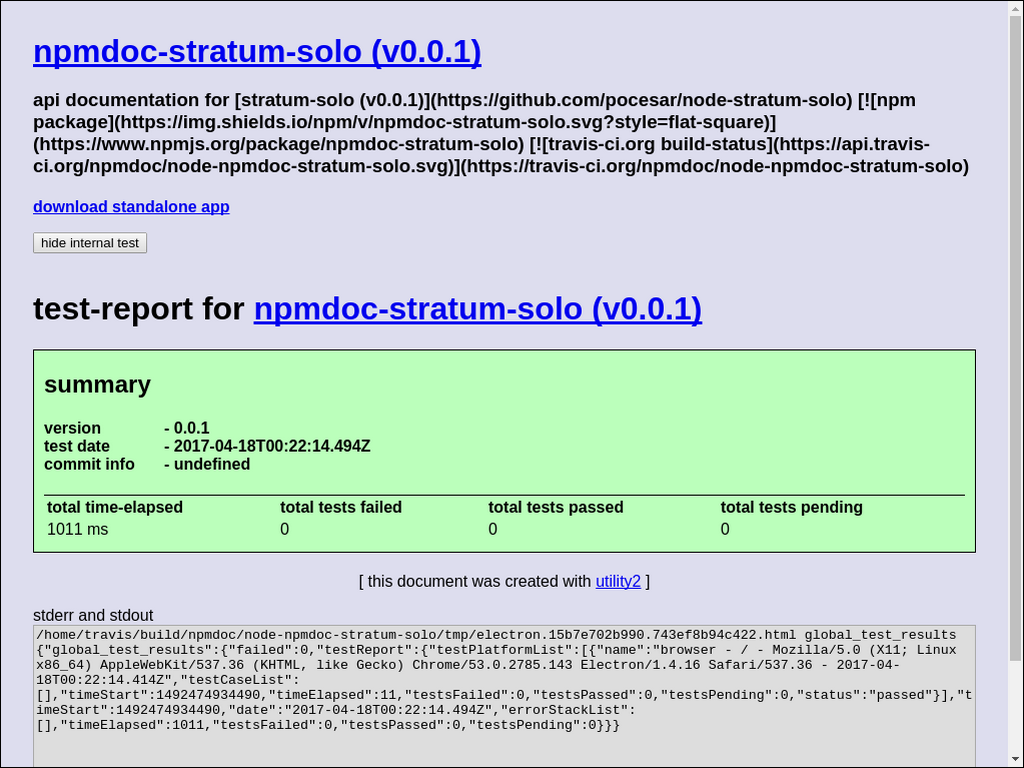
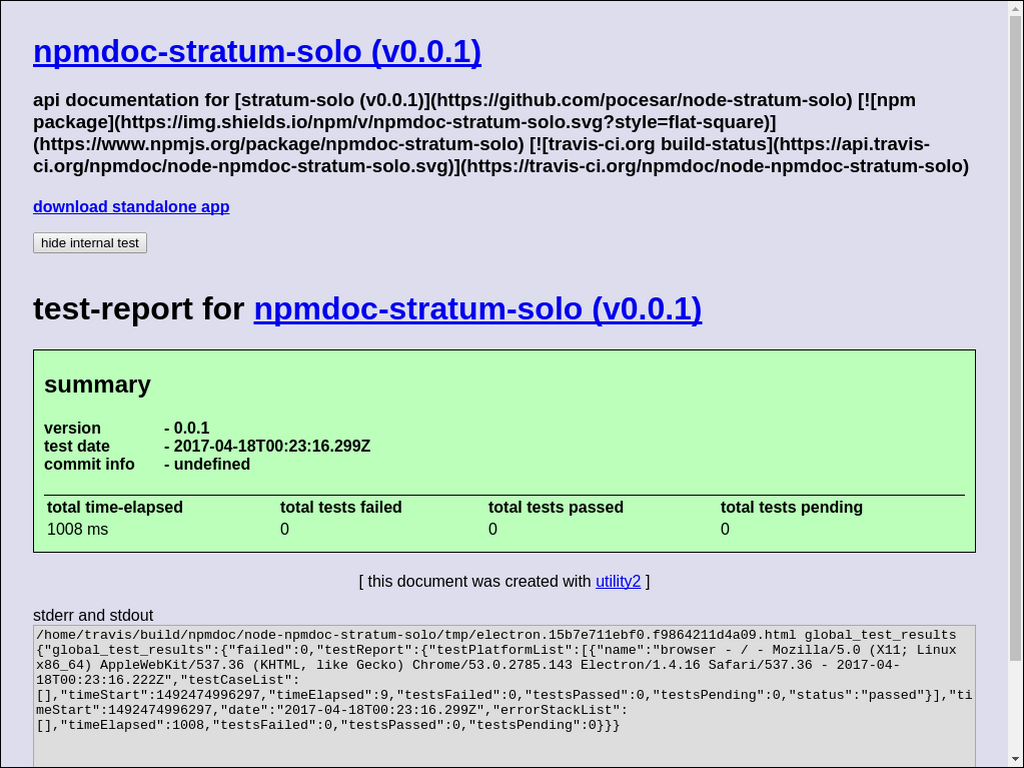
[ci skip] update gh-pages

diff --git a/build..alpha..travis-ci.org/screenCapture.buildCi.browser.%2Ftmp%2Fbuild%2Ftest-report.html.html b/build..alpha..travis-ci.org/screenCapture.buildCi.browser.%2Ftmp%2Fbuild%2Ftest-report.html.html
@@ -63,10 +63,10 @@
 <h4>
     <span>version</span>-
         0.0.1<br>
-    <span>test date</span>- 2017-04-18T00:22:26.670Z<br>
+    <span>test date</span>- 2017-04-18T00:23:28.345Z<br>
     <span>commit info</span>-
         
-        4f15844e5f193969632639b259bc8f11bbc6729c - [npm publishAfterCommitAfterBuild]<br>
+        4f15844e5f193969632639b259bc8f11bbc6729c - [npm publishAfterCommit]<br>
         
 </h4>
 <table>
@@ -79,7 +79,7 @@
     </tr>
 </thead>
 <tbody><tr>
-    <td>28329 ms</td>
+    <td>89789 ms</td>
     <td class="testPassed">0</td>
     <td>8</td>
     <td>0</td>
@@ -91,7 +91,7 @@
 <h4>
     1. buildApidoc - node - linux v6.10.2 - 2017-04-18T00:22:26.559Z<br>
     
-    <span>time-elapsed</span>- 1581 ms<br>
+    <span>time-elapsed</span>- 63041 ms<br>
     <span>tests failed</span>- 0<br>
     <span>tests passed</span>- 1<br>
     <span>tests pending</span>- 0<br>
@@ -122,7 +122,7 @@
 <h4>
     2. buildApp - node - linux v6.10.2 - 2017-04-18T00:21:59.566Z<br>
     
-    <span>time-elapsed</span>- 28329 ms<br>
+    <span>time-elapsed</span>- 89789 ms<br>
     <span>tests failed</span>- 0<br>
     <span>tests passed</span>- 7<br>
     <span>tests pending</span>- 0<br>

diff --git a/build..alpha..travis-ci.org/test-report.html b/build..alpha..travis-ci.org/test-report.html
@@ -67,10 +67,10 @@
 <h4>
     <span>version</span>-
         0.0.1<br>
-    <span>test date</span>- 2017-04-18T00:22:26.670Z<br>
+    <span>test date</span>- 2017-04-18T00:23:28.345Z<br>
     <span>commit info</span>-
         
-        4f15844e5f193969632639b259bc8f11bbc6729c - [npm publishAfterCommitAfterBuild]<br>
+        4f15844e5f193969632639b259bc8f11bbc6729c - [npm publishAfterCommit]<br>
         
 </h4>
 <table>
@@ -83,7 +83,7 @@
     </tr>
 </thead>
 <tbody><tr>
-    <td>28329 ms</td>
+    <td>89789 ms</td>
     <td class="testPassed">0</td>
     <td>8</td>
     <td>0</td>
@@ -95,7 +95,7 @@
 <h4>
     1. buildApidoc - node - linux v6.10.2 - 2017-04-18T00:22:26.559Z<br>
     
-    <span>time-elapsed</span>- 1581 ms<br>
+    <span>time-elapsed</span>- 63041 ms<br>
     <span>tests failed</span>- 0<br>
     <span>tests passed</span>- 1<br>
     <span>tests pending</span>- 0<br>
@@ -127,7 +127,7 @@
 <h4>
     2. buildApp - node - linux v6.10.2 - 2017-04-18T00:21:59.566Z<br>
     
-    <span>time-elapsed</span>- 28329 ms<br>
+    <span>time-elapsed</span>- 89789 ms<br>
     <span>tests failed</span>- 0<br>
     <span>tests passed</span>- 7<br>
     <span>tests pending</span>- 0<br>

diff --git a/build/screenCapture.buildCi.browser.%2Ftmp%2Fbuild%2Ftest-report.html.html b/build/screenCapture.buildCi.browser.%2Ftmp%2Fbuild%2Ftest-report.html.html
@@ -63,10 +63,10 @@
 <h4>
     <span>version</span>-
         0.0.1<br>
-    <span>test date</span>- 2017-04-18T00:22:26.670Z<br>
+    <span>test date</span>- 2017-04-18T00:23:28.345Z<br>
     <span>commit info</span>-
         
-        4f15844e5f193969632639b259bc8f11bbc6729c - [npm publishAfterCommitAfterBuild]<br>
+        4f15844e5f193969632639b259bc8f11bbc6729c - [npm publishAfterCommit]<br>
         
 </h4>
 <table>
@@ -79,7 +79,7 @@
     </tr>
 </thead>
 <tbody><tr>
-    <td>28329 ms</td>
+    <td>89789 ms</td>
     <td class="testPassed">0</td>
     <td>8</td>
     <td>0</td>
@@ -91,7 +91,7 @@
 <h4>
     1. buildApidoc - node - linux v6.10.2 - 2017-04-18T00:22:26.559Z<br>
     
-    <span>time-elapsed</span>- 1581 ms<br>
+    <span>time-elapsed</span>- 63041 ms<br>
     <span>tests failed</span>- 0<br>
     <span>tests passed</span>- 1<br>
     <span>tests pending</span>- 0<br>
@@ -122,7 +122,7 @@
 <h4>
     2. buildApp - node - linux v6.10.2 - 2017-04-18T00:21:59.566Z<br>
     
-    <span>time-elapsed</span>- 28329 ms<br>
+    <span>time-elapsed</span>- 89789 ms<br>
     <span>tests failed</span>- 0<br>
     <span>tests passed</span>- 7<br>
     <span>tests pending</span>- 0<br>

diff --git a/build/test-report.html b/build/test-report.html
@@ -67,10 +67,10 @@
 <h4>
     <span>version</span>-
         0.0.1<br>
-    <span>test date</span>- 2017-04-18T00:22:26.670Z<br>
+    <span>test date</span>- 2017-04-18T00:23:28.345Z<br>
     <span>commit info</span>-
         
-        4f15844e5f193969632639b259bc8f11bbc6729c - [npm publishAfterCommitAfterBuild]<br>
+        4f15844e5f193969632639b259bc8f11bbc6729c - [npm publishAfterCommit]<br>
         
 </h4>
 <table>
@@ -83,7 +83,7 @@
     </tr>
 </thead>
 <tbody><tr>
-    <td>28329 ms</td>
+    <td>89789 ms</td>
     <td class="testPassed">0</td>
     <td>8</td>
     <td>0</td>
@@ -95,7 +95,7 @@
 <h4>
     1. buildApidoc - node - linux v6.10.2 - 2017-04-18T00:22:26.559Z<br>
     
-    <span>time-elapsed</span>- 1581 ms<br>
+    <span>time-elapsed</span>- 63041 ms<br>
     <span>tests failed</span>- 0<br>
     <span>tests passed</span>- 1<br>
     <span>tests pending</span>- 0<br>
@@ -127,7 +127,7 @@
 <h4>
     2. buildApp - node - linux v6.10.2 - 2017-04-18T00:21:59.566Z<br>
     
-    <span>time-elapsed</span>- 28329 ms<br>
+    <span>time-elapsed</span>- 89789 ms<br>
     <span>tests failed</span>- 0<br>
     <span>tests passed</span>- 7<br>
     <span>tests pending</span>- 0<br>

diff --git a/build..alpha..travis-ci.org/screenCapture.npmTest.browser.%2F.html b/build..alpha..travis-ci.org/screenCapture.npmTest.browser.%2F.html
@@ -118,7 +118,7 @@ textarea[readonly] {
 <h4>
     <span>version</span>-
         0.0.1<br>
-    <span>test date</span>- 2017-04-18T00:22:14.494Z<br>
+    <span>test date</span>- 2017-04-18T00:23:16.299Z<br>
     <span>commit info</span>-
         
         undefined<br>
@@ -134,7 +134,7 @@ textarea[readonly] {
     </tr>
 </thead>
 <tbody><tr>
-    <td>1011 ms</td>
+    <td>1008 ms</td>
     <td class="testPassed">0</td>
     <td>0</td>
     <td>0</td>

diff --git a/build/screenCapture.npmTest.browser.%2F.html b/build/screenCapture.npmTest.browser.%2F.html
@@ -118,7 +118,7 @@ textarea[readonly] {
 <h4>
     <span>version</span>-
         0.0.1<br>
-    <span>test date</span>- 2017-04-18T00:22:14.494Z<br>
+    <span>test date</span>- 2017-04-18T00:23:16.299Z<br>
     <span>commit info</span>-
         
         undefined<br>
@@ -134,7 +134,7 @@ textarea[readonly] {
     </tr>
 </thead>
 <tbody><tr>
-    <td>1011 ms</td>
+    <td>1008 ms</td>
     <td class="testPassed">0</td>
     <td>0</td>
     <td>0</td>
